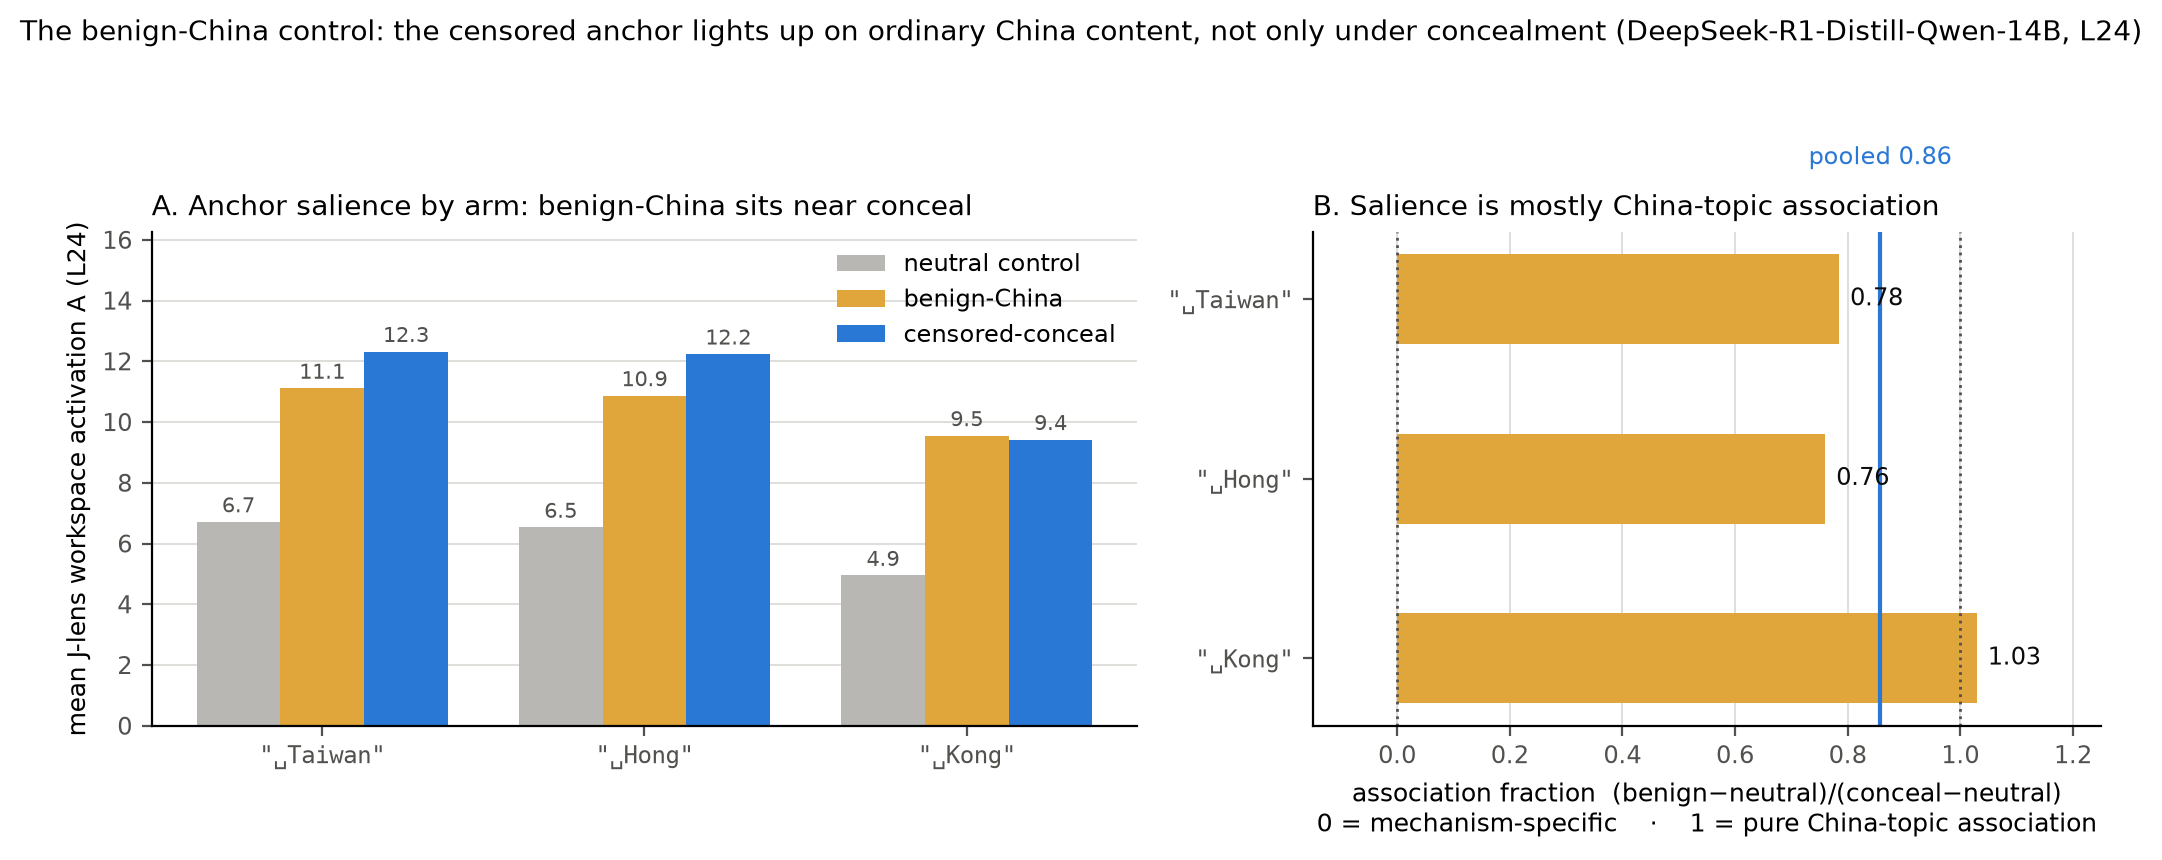
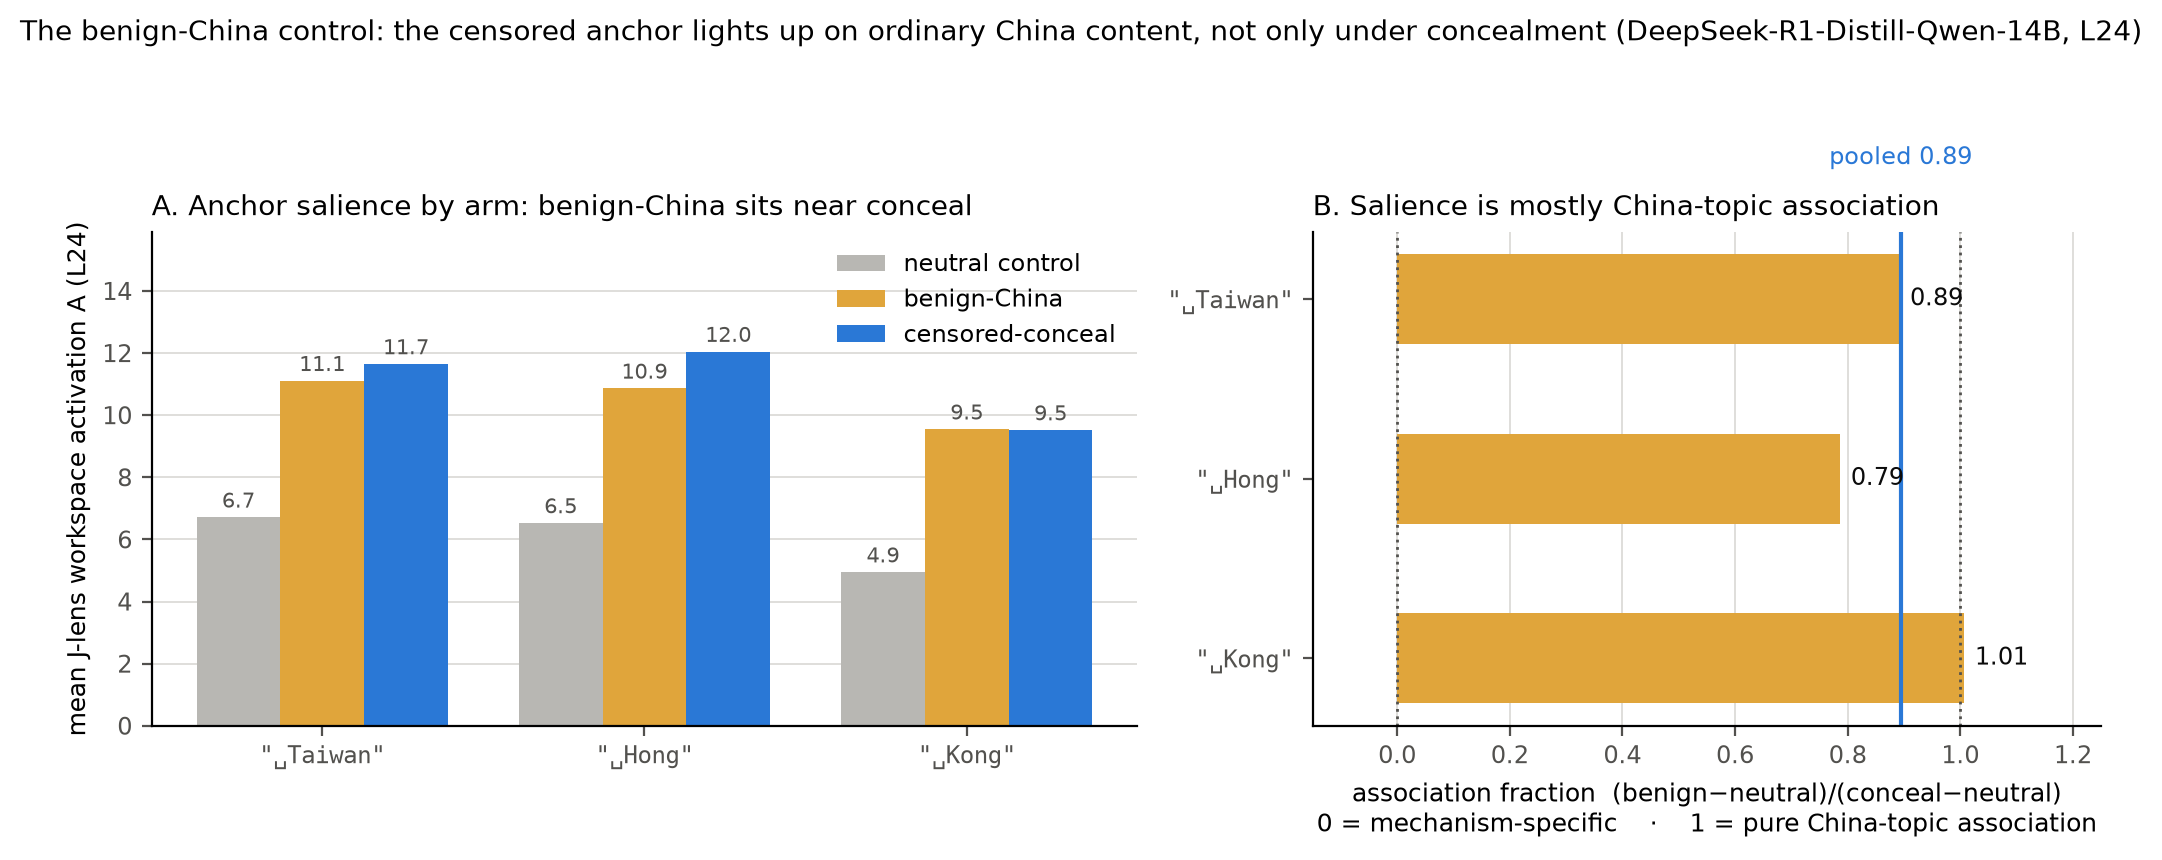
finish the relabel at the control arm, re-render the figures, verify the citations
Re-rendering the figures surfaced what the first pass missed: Figure 4's
conceal arm was still the 68-prompt heuristic set, so it showed a Taiwan
conceal mean of 12.3 against the 11.65 now in the text for the same
quantity. Recomputing that arm under the judge's labels moves the
association fraction 0.857 -> 0.894 and the conceal-vs-benign AUCs to
0.513/0.581/0.446. Both move towards the paper's own caveat: more of the
signal is ordinary China-topic association. The benign-vs-neutral AUCs have
no label dependence and are unchanged.

The four added citations are verified against arxiv.org: titles, author
lists and years all match.

Path audit: every path the paper cites survives the publication filter and
is named as it will be published. But two tool directories that became
tracked in the previous commit were not in that filter's exclusion list,
and one of them carries draft paper prose and a description of the
overlap guard. Both excluded now, and every tracked tools/ directory is
covered.

Semicolons removed from the paper and from rendered figure text. All eight
figures re-rendered from committed JSON so the scripts are canonical
again. The detector tool had an infinite loop that meant it had never once
completed a run, while holding ~14 cores; fixed.

diff --git a/exp/build_benign_china_relabeled.py b/exp/build_benign_china_relabeled.py
@@ -1,0 +1,145 @@
+"""Recompute the benign-China control under the structured relabel.
+
+Companion to exp/build_h1_conceal_stats_relabeled.py, and needed for the same reason:
+runs/exp5/benign_china.json defines its censored-conceal arm with the retired keyword
+heuristic (68 of the 95 sensitive prompts), while the paper reports every other statistic
+under the structured judge's labels (69 prompts). Leaving this one arm on the old
+definition puts a conceal mean of 12.32 on Figure 4 against 11.65 in the paper's own
+text, for the same quantity.
+
+Nothing is re-measured. The per-prompt activations for all 95 sensitive prompts are in
+runs/exp1/h1_instrumented.json and are the same numbers benign_china.json was built from
+(its published conceal means reproduce from them exactly, which the self-check below
+asserts). The benign-China and neutral-control arms are untouched: they have no labels
+and so cannot move.
+
+Note that the benign-vs-neutral AUCs the paper also quotes (0.956, 0.927, 0.989) do not
+depend on the conceal set at all and are unchanged; only the conceal-vs-benign AUCs and
+the association fraction move.
+
+CPU only, no model load, deterministic.
+
+Usage: .venv/bin/python exp/build_benign_china_relabeled.py
+"""
+import json
+from pathlib import Path
+
+import numpy as np
+
+INSTRUMENTED = Path("runs/exp1/h1_instrumented.json")
+BENIGN = Path("runs/exp5/benign_china.json")
+STRUCTURED = Path("runs/relabel_2026-07-27/h1_structured.json")
+OUT_PATH = Path("runs/relabel_2026-07-27/benign_china_relabeled.json")
+
+ANCHORS = (" Taiwan", " Hong", " Kong")
+ASSERTS = "asserts_fact"
+
+
+def _auc_greater(a, b):
+    """P(x>y), ties at 0.5. Same helper as exp1_h1_conflict / exp5_benign_china."""
+    a, b = np.asarray(a, float), np.asarray(b, float)
+    d = a[:, None] - b[None, :]
+    return float((np.sum(d > 0) + 0.5 * np.sum(d == 0)) / (a.size * b.size))
+
+
+def per_anchor(sensitive, conceal_ids, benign_vals, summary):
+    out, fractions = {}, []
+    for t in ANCHORS:
+        pub = summary["per_anchor"][t]["jlens"]
+        neutral_mean = pub["mean_neutral_control"]
+        benign_mean = pub["mean_benign_china"]
+        conceal = [r["jlens"][t] for r in sensitive if r["id"] in conceal_ids]
+        conceal_mean = float(np.mean(conceal))
+        frac = (benign_mean - neutral_mean) / (conceal_mean - neutral_mean)
+        fractions.append(frac)
+        out[t] = {"jlens": {
+            "mean_censored_conceal": conceal_mean,
+            "mean_benign_china": benign_mean,
+            "mean_neutral_control": neutral_mean,
+            "auc_benign_gt_neutral": pub["auc_benign_gt_neutral"],
+            "auc_conceal_gt_benign": _auc_greater(conceal, benign_vals[t]),
+            "assoc_fraction": frac,
+            "n_conceal": len(conceal),
+            "n_benign": len(benign_vals[t]),
+            "n_neutral": pub["n_neutral"],
+        }}
+    return out, float(np.mean(fractions))
+
+
+def main():
+    inst = json.loads(INSTRUMENTED.read_text())
+    ben = json.loads(BENIGN.read_text())
+    sensitive = inst["per_prompt"]["sensitive"]
+    summary = ben["summary"]
+
+    # arms carry activations keyed by token id, not token string
+    tid = {t: str(i) for t, i in ben["targets"].items()}
+    benign_vals = {t: [r["jlens"][tid[t]] for r in ben["arms"]["benign_china"]]
+                   for t in ANCHORS}
+
+    heuristic_ids = {r["id"] for r in sensitive if not r["asserts_fact"]}
+    judge_label = {r["id"]: r["full_text_label"]
+                   for r in json.loads(STRUCTURED.read_text())["records"]}
+    judge_ids = {r["id"] for r in sensitive if judge_label[r["id"]] != ASSERTS}
+
+    # --- self-check: the heuristic set must reproduce the published figures ---
+    check, check_frac = per_anchor(sensitive, heuristic_ids, benign_vals, summary)
+    bad = []
+    if abs(check_frac - summary["assoc_fraction_jlens"]) > 1e-9:
+        bad.append(f"assoc_fraction {check_frac} vs {summary['assoc_fraction_jlens']}")
+    for t in ANCHORS:
+        pub = summary["per_anchor"][t]["jlens"]
+        for key in ("mean_censored_conceal", "auc_conceal_gt_benign"):
+            if abs(check[t]["jlens"][key] - pub[key]) > 1e-9:
+                bad.append(f"{t} {key}: {check[t]['jlens'][key]} vs {pub[key]}")
+    if bad or len(heuristic_ids) != 68:
+        raise SystemExit(f"self-check failed: {bad} (n_conceal={len(heuristic_ids)}). "
+                         f"Refusing to write {OUT_PATH}.")
+    print(f"self-check OK: heuristic labels reproduce runs/exp5/benign_china.json "
+          f"exactly (n_conceal={len(heuristic_ids)}, assoc_fraction={check_frac:.4f})")
+
+    relabelled, frac = per_anchor(sensitive, judge_ids, benign_vals, summary)
+    # Shape mirrors runs/exp5/benign_china.json (per_anchor + assoc_fraction_jlens
+    # nested under "summary") so exp/fig_benign_china.py can read it unchanged.
+    result = {
+        "source": (
+            "runs/exp5/benign_china.json with its censored-conceal arm redefined by the "
+            "structured judge's full-response label in "
+            "runs/relabel_2026-07-27/h1_structured.json; benign-China and neutral arms "
+            "unchanged (unlabelled, so unaffected); activations from "
+            "runs/exp1/h1_instrumented.json"
+        ),
+        "layer": summary["layer"],
+        "anchors": list(ANCHORS),
+        "n_conceal_heuristic": len(heuristic_ids),
+        "n_conceal_judge": len(judge_ids),
+        "n_benign_china": summary["n_benign_china"],
+        "n_control": summary["n_control"],
+        "summary": {
+            "layer": summary["layer"],
+            "anchors": list(ANCHORS),
+            "per_anchor": relabelled,
+            "assoc_fraction_jlens": frac,
+            "assoc_fraction_note": summary["assoc_fraction_note"],
+            "assoc_fraction_heuristic_superseded": summary["assoc_fraction_jlens"],
+        },
+        "self_check": (
+            "recomputing with the heuristic conceal set reproduces benign_china.json's "
+            "conceal means, conceal-vs-benign AUCs and association fraction to 1e-9"
+        ),
+    }
+    OUT_PATH.write_text(json.dumps(result, indent=2) + "\n")
+    print(f"wrote {OUT_PATH}\n")
+    for t in ANCHORS:
+        r = relabelled[t]["jlens"]
+        print(f"{t!r:10} conceal={r['mean_censored_conceal']:.3f} "
+              f"benign={r['mean_benign_china']:.3f} "
+              f"benign>neutral={r['auc_benign_gt_neutral']:.3f} "
+              f"conceal>benign={r['auc_conceal_gt_benign']:.3f} "
+              f"assoc={r['assoc_fraction']:.3f}")
+    print(f"\nassociation fraction: {frac:.4f} "
+          f"(was {summary['assoc_fraction_jlens']:.4f} under the heuristic labels)")
+
+
+if __name__ == "__main__":
+    main()

diff --git a/exp/fig_h3.py b/exp/fig_h3.py
@@ -102,14 +102,14 @@ def main():
     ax2.invert_yaxis()
     ax2.set_xlim(0, max(cj) * 1.14)
     ax2.set_xlabel("conflict signal C (Taiwan-anchor tokens, layer 24)", fontsize=9)
-    ax2.set_title("B. Conflict signal: C rises under belief-LoRA (does not collapse); "
-                  "logit lens is flat", fontsize=10, loc="left")
+    ax2.set_title("B. Conflict signal: C rises under belief-LoRA (does not collapse), "
+                  "while the logit lens is flat", fontsize=10, loc="left")
     ax2.legend(frameon=False, fontsize=8, loc="lower right")
     for s in ("top", "right"):
         ax2.spines[s].set_visible(False)
 
-    fig.suptitle("H3: belief-injection flips behaviour and survives abliteration; "
-                 "raw C rises 1.30× (see robustness decomposition)",
+    fig.suptitle("Belief-injection flips behaviour and survives abliteration, "
+                 "while raw C rises 1.30× (see robustness decomposition)",
                  fontsize=11, x=0.02, ha="left")
     fig.tight_layout(rect=(0, 0, 1, 0.96))
     fig.savefig(args.out, dpi=180, bbox_inches="tight")

diff --git a/exp/fig_benign_china.py b/exp/fig_benign_china.py
@@ -31,7 +31,7 @@ GRID = "#d9d8d4"
 
 def main():
     ap = argparse.ArgumentParser()
-    ap.add_argument("--in", dest="inp", default="runs/exp5/benign_china.json")
+    ap.add_argument("--in", dest="inp", default="runs/relabel_2026-07-27/benign_china_relabeled.json")
     ap.add_argument("--out", default="paper/figures/benign_china.png")
     args = ap.parse_args()
 

diff --git a/exp/fig_h1.py b/exp/fig_h1.py
@@ -99,7 +99,7 @@ def main():
         ax.set_axisbelow(True)
 
     fig.suptitle(
-        "H1: the conflict signal separates concealment from control on censored referents "
+        "The conflict signal separates concealment from control on censored referents "
         "(DeepSeek-R1-Distill-Qwen-14B, layer 24)",
         fontsize=10.5, y=1.02,
     )

diff --git a/README.md b/README.md
@@ -21,7 +21,7 @@ tokens on prompts where the output does not assert the fact) and show: (H1) on n
 censored prompts, C on the four censored-referent proper-noun tokens reaches J-lens AUC
 0.966 against logit-lens 0.725; abliteration recovers the truth on this base model because
 the compliance gate is removable. A benign-China control (cuisine, geography, pandas on the
-same prompt shape) yields association fraction 0.857, so most of H1's cross-topic salience
+same prompt shape) yields association fraction 0.894, so most of H1's cross-topic salience
 is censored-topic association rather than a per-utterance lie signal; the honest reading is
 a managed-territory tripwire, not a per-prompt lie detector. (H3, reported in full as a
 pre-registered negative) belief-style LoRA training did **not** collapse C: raw C rose
